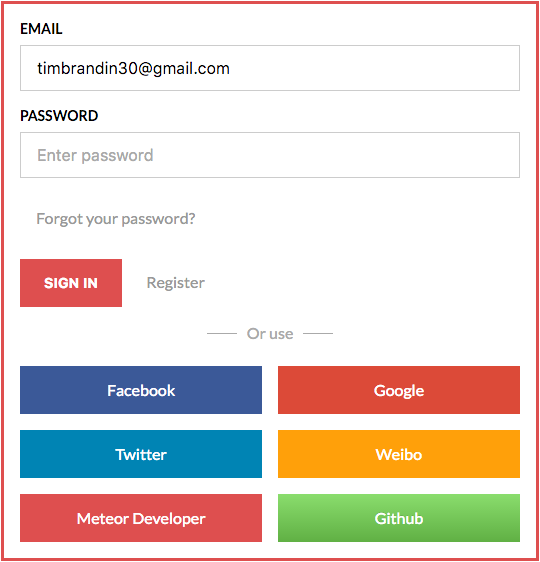
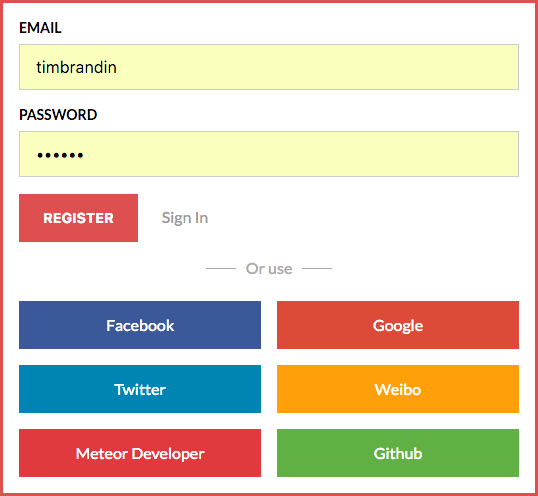
theming.

diff --git a/styles.scss b/styles.scss
@@ -1,6 +1,19 @@
+$primary: #de4f4f;
+$secondary: #999;
+$facebook: #3b5998;
+$twitter: #0084b4;
+$google: #dc4a38;
+$linkedin: #1f88be;
+$instagram: #49769c;
+$youtube: #cc181e;
+$meteor-developer: #de4f4f;
+$meetup: #E0393E;
+$github: #60b044;
+$weibo: #FFA00A;
+
 .accounts-ui {
   padding: 16px;
-  border: solid 3px #de4f4f;
+  border: solid 3px $primary;
   background: white;
   margin: 16px;
   max-width: 500px;
@@ -50,7 +63,8 @@
     box-sizing: border-box;
   }
   button {
-    background: #de4f4f;
+    background: $secondary;
+    outline: none;
     color: #FFF;
     margin-right: 8px;
     text-transform: uppercase;
@@ -59,11 +73,19 @@
     padding: 16px 24px;
     font-size: 14px;
     line-height: 16px;
+    cursor: pointer;
     &[type="submit"] {
-      background: #de4f4f;
+      background: $primary;
     }
     &[disabled] {
       opacity: 0.5;
+    }
+    &:focus,
+    &:hover {
+      background-color: lighten($primary, 5%);
+    }
+    &:active {
+      background-color: darken($primary, 5%);
     }
   }
   .message {
@@ -103,39 +125,108 @@
       text-align: center;
       box-sizing: border-box;
       color: white;
+      &[disabled] {
+        opacity: 0.5;
+      }
       &.facebook {
-        background-color: #3b5998;
+        background-color: $facebook;
+        &:focus,
+        &:hover {
+          background-color: lighten($facebook, 5%);
+        }
+        &:active {
+          background-color: darken($facebook, 5%);
+        }
       }
       &.twitter {
-        background-color: #0084b4;
+        background-color: $twitter;
+        &:focus,
+        &:hover {
+          background-color: lighten($twitter, 5%);
+        }
+        &:active {
+          background-color: darken($twitter, 5%);
+        }
       }
       &.google {
-        background-color: #dc4a38;
+        background-color: $google;
+        &:focus,
+        &:hover {
+          background-color: lighten($google, 5%);
+        }
+        &:active {
+          background-color: darken($google, 5%);
+        }
       }
       &.linkedin {
-        background-color: #1f88be;
+        background-color: $linkedin;
+        &:focus,
+        &:hover {
+          background-color: lighten($linkedin, 5%);
+        }
+        &:active {
+          background-color: darken($linkedin, 5%);
+        }
       }
       &.instagram {
-        background-color: #49769c;
+        background-color: $instagram;
+        &:focus,
+        &:hover {
+          background-color: lighten($instagram, 5%);
+        }
+        &:active {
+          background-color: darken($instagram, 5%);
+        }
       }
       &.youtube {
-        background-color: #cc181e;
+        background-color: $youtube;
+        &:focus,
+        &:hover {
+          background-color: lighten($youtube, 5%);
+        }
+        &:active {
+          background-color: darken($youtube, 5%);
+        }
       }
       &.meteor-developer {
-        background-color: #de4f4f;
+        background-color: $meetup;
+        &:focus,
+        &:hover {
+          background-color: lighten($meetup, 5%);
+        }
+        &:active {
+          background-color: darken($meetup, 5%);
+        }
       }
       &.meetup {
-        background-color: #E0393E;
+        background-color: $meetup;
+        &:focus,
+        &:hover {
+          background-color: lighten($meetup, 5%);
+        }
+        &:active {
+          background-color: darken($meetup, 5%);
+        }
       }
       &.github {
-        text-shadow: 0 -1px 0 rgba(0,0,0,0.15);
-        background-color: #60b044;
-        background-image: -webkit-linear-gradient(#8add6d, #60b044);
-        background-image: linear-gradient(#8add6d, #60b044);
-        border-color: #5ca941;
+        background-color: $github;
+        &:focus,
+        &:hover {
+          background-color: lighten($github, 5%);
+        }
+        &:active {
+          background-color: darken($github, 5%);
+        }
       }
       &.weibo {
-        background-color: #FFA00A;
+        background-color: $weibo;
+        &:focus,
+        &:hover {
+          background-color: lighten($weibo, 5%);
+        }
+        &:active {
+          background-color: darken($weibo, 5%);
+        }
       }
     }
     .col {

diff --git a/package.js b/package.js
@@ -1,6 +1,6 @@
 Package.describe({
   name: 'std:accounts-basic',
-  version: '1.1.2',
+  version: '1.1.3',
   summary: 'Basic – Accounts UI for React in Meteor 1.3',
   git: 'https://github.com/studiointeract/accounts-basic',
   documentation: 'README.md'

diff --git a/README.md b/README.md
@@ -1,6 +1,6 @@
 # React Accounts UI for Meteor 1.3 - Basic
 
-Current version 1.1.2
+Current version 1.1.3
 
 ![React Accounts UI for Meteor 1.3 - Basic](https://raw.githubusercontent.com/studiointeract/accounts-basic/master/accounts-basic.png)
 
